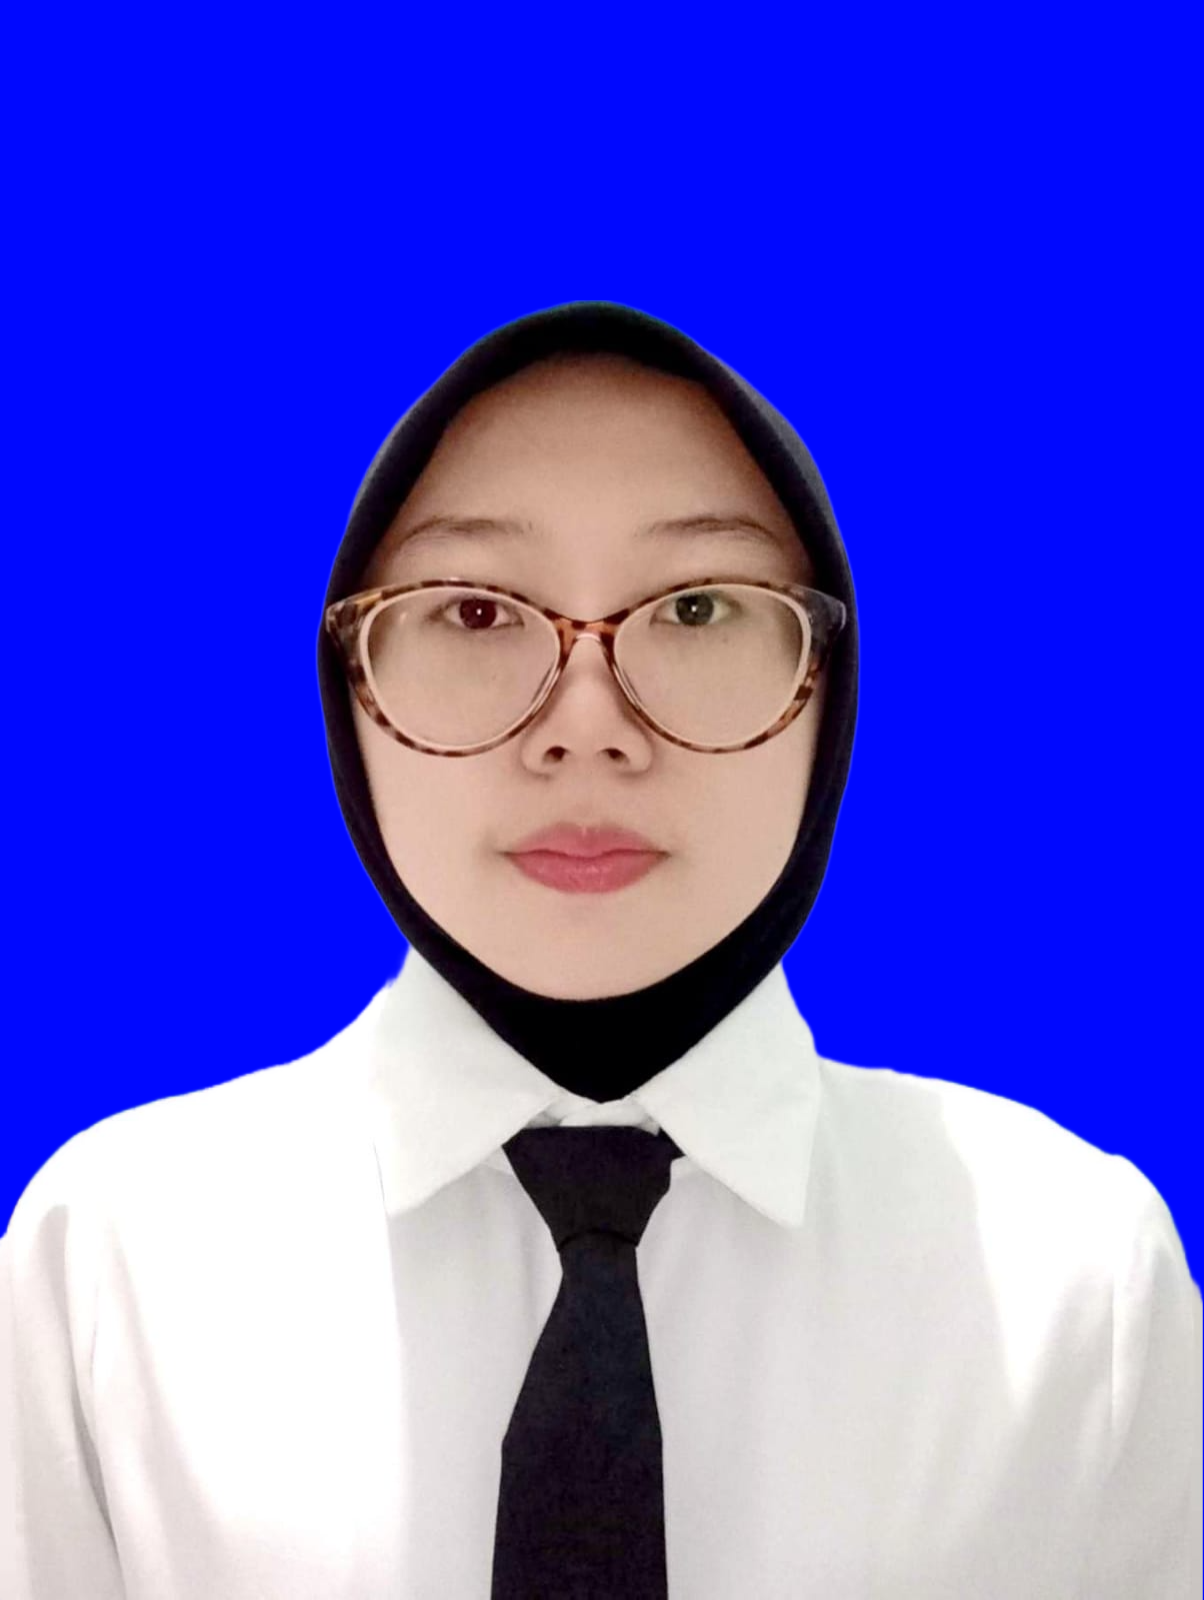
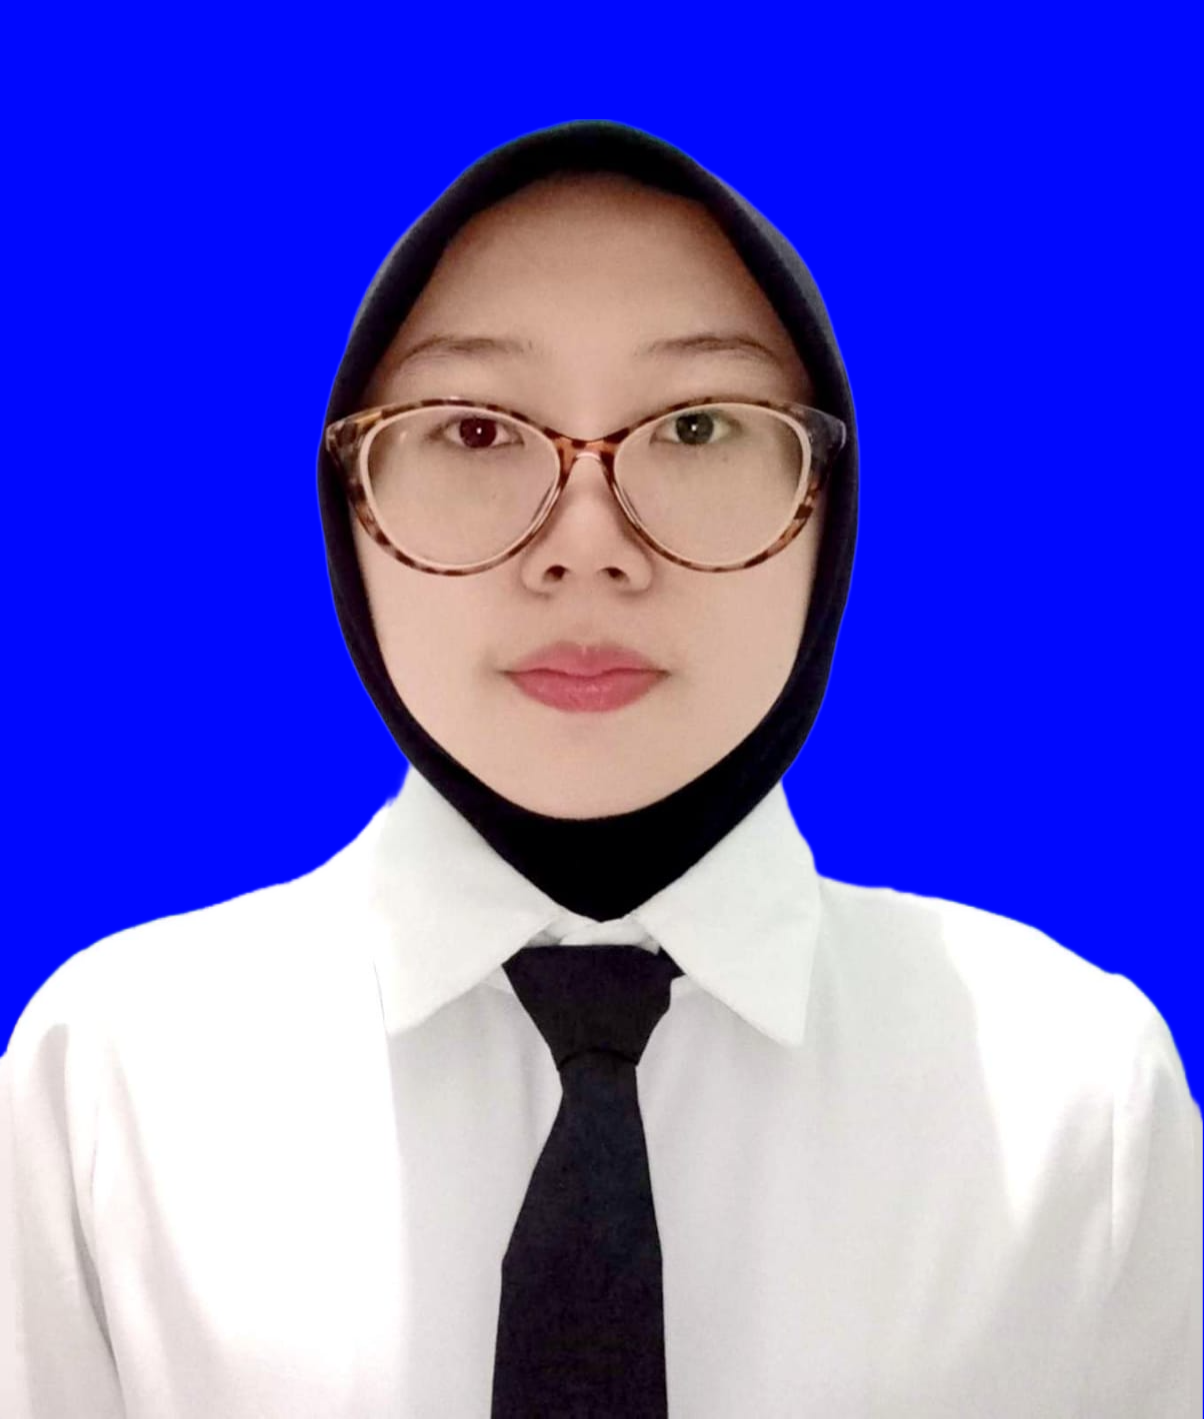
update style

Changed region(s): [[0.0, 0.062, 1.0, 0.8992], [0.0615, 0.8372, 0.0922, 0.9612], [0.3995, 0.8682, 0.4302, 0.8992]]

diff --git a/style.css b/style.css
@@ -387,7 +387,7 @@ section { padding: 110px 0;}
     border: 1px solid var(--border);
     border-radius: 20px;
     transition: .35s;
-    align-items: center;
+    justify-content: center !important;
 }
 .skill-card:hover {
     transform: translateY(-6px);
@@ -584,16 +584,6 @@ section { padding: 110px 0;}
     row-gap: 35px;
     align-items: start;
 }
-.timeline::before {
-    content: "";
-    position: absolute;
-    top: 50%;
-    left: 0;
-    right: 0;
-    height: 2px;
-    background: var(--blue-soft);
-    z-index: 0;
-}
 .timeline-item {
     position: relative;
     z-index: 1;
@@ -784,112 +774,72 @@ footer { padding: 30px 0;}
     visibility: visible;
     transform: translateY(0);
 }
-.timeline {
-    position: relative;
-    max-width: 1100px;
-    width: 100%;
-    margin: 55px auto 0;
-    display: grid;
-    grid-template-columns: repeat(2, minmax(0, 1fr));
-    column-gap: 35px;
-    row-gap: 35px;
-    align-items: stretch;
-}
-.timeline-item {
-    position: relative;
-    min-width: 0;
-}
-.timeline-item:nth-child(odd) {
-    transform: translateY(-15px);
-}
-.timeline-item:nth-child(even) {
-    transform: translateY(15px);
-}
-.timeline-content {
-    height: 100%;
-    padding: 25px;
-    background: rgba(255, 255, 255, .92);
-    border: 1px solid var(--border);
-    border-radius: 20px;
-    box-shadow: 0 8px 30px rgba(62, 91, 107, .05);
-    transition: .35s ease;
-    overflow-wrap: break-word;
-}
-.timeline-content:hover {
-    transform: translateY(-6px);
-    box-shadow: var(--shadow-hover);
-    border-color: var(--blue-soft);
-}
-.timeline-content span {
-    display: inline-block;
-    font-size: 11px;
-    font-weight: 700;
-    color: var(--blue-dark);
-    background: rgba(143, 181, 201, .13);
-    padding: 7px 12px;
-    border-radius: 20px;
-    margin-bottom: 12px;
-}
-.timeline-content h3 {
-    font-family: "Playfair Display", serif;
-    font-size: 21px;
-    line-height: 1.35;
-    color: var(--navy);
-    margin-bottom: 12px;
-}
-.timeline-content p {
-    font-size: 13px;
-    line-height: 1.75;
-    color: var(--muted);
-    margin-bottom: 15px;
-    text-align: justify;
-}
-.timeline-link {
-    display: inline-flex;
-    align-items: center;
-    gap: 7px;
-    font-size: 12px;
-    font-weight: 700;
-    color: var(--blue-dark);
-    text-decoration: none;
-    transition: .3s ease;
-}
-.timeline-link:hover {
-    color: var(--navy);
-    gap: 11px;
+/* ==================== RESPONSIVE ==================== */
+@media (max-width: 992px) {
+    .hero-wrapper { gap: 35px; }
+    .hero h1 { font-size: 60px; }
+    .about-grid { gap: 35px; }
+    .skills-certificates { grid-template-columns: 1fr; gap: 40px; }
+    .projects-grid { grid-template-columns: repeat(2, 1fr); }
+    .timeline { column-gap: 20px; }
 }
 
 @media (max-width: 768px) {
-    .timeline {
-        column-gap: 20px;
-        row-gap: 25px;
-        margin-top: 35px;
+    .navbar { height: 70px; }
+    .menu-btn { display: block; }
+    .nav-links {
+        position: absolute; top: 70px; left: 0; width: 100%;
+        display: none; flex-direction: column; align-items: center;
+        gap: 20px; padding: 25px; background: var(--bg);
+        box-shadow: var(--shadow);
     }
-    .timeline-item:nth-child(odd) {transform: translateY(-8px);}
-    .timeline-item:nth-child(even) {transform: translateY(8px);}
-    .timeline-content {padding: 20px; border-radius: 16px;}
-    .timeline-content h3 {font-size: 18px;}
-    .timeline-content p {font-size: 12px;}
+    .nav-links.active { display: flex; }
+    .hero { min-height: auto; padding: 120px 0 70px; }
+    .hero-wrapper, .about-grid { grid-template-columns: 1fr; gap: 40px; }
+    .hero-content { text-align: center; }
+    .hero-description { margin: 0 auto 25px; }
+    .hero-buttons { justify-content: center; }
+    .hero h1 { font-size: clamp(42px, 10vw, 60px); }
+    .hero-image-card { height: 400px; max-width: 330px; }
+    .floating-card { left: -10px; }
+    .flower { right: -5px; }
+    section { padding: 75px 0; }
+    .section-heading { margin-bottom: 35px; }
+    .about-left { max-width: 100%; }
+    .about-photo { height: 400px; max-width: 100%; }
+    .about-content p { font-size: 14px; }
+    .skills-grid { grid-template-columns: repeat(2, 1fr); }
+    .projects-grid { grid-template-columns: repeat(2, 1fr); }
+    .timeline { grid-template-columns: 1fr; gap: 20px; margin-top: 35px; }
+    .timeline-item:nth-child(odd), .timeline-item:nth-child(even) { transform: none; }
+    .contact-card { padding: 55px 25px; border-radius: 25px; }
+    .footer-inner { flex-direction: column; text-align: center; }
 }
 
-@media (max-width: 576px) {
-    .timeline {
-        grid-template-columns: 1fr;
-        gap: 20px;
-        margin: 30px auto 0;
-        padding: 0 5px;
-    }
-    .timeline-item:nth-child(odd),
-    .timeline-item:nth-child(even) {transform: none;}
-    .timeline-content {padding: 20px; border-radius: 16px;}
-    .timeline-content h3 {font-size: 18px; line-height: 1.4;}
-    .timeline-content p {font-size: 13px; line-height: 1.7;}
-    .timeline-content span {font-size: 10px; padding: 6px 10px;}
-    .timeline-link {font-size: 12px;}
-}
-
-@media (max-width: 375px) {
-    .timeline-content {padding: 16px;}
-    .timeline-content h3 {font-size: 16px;}
-    .timeline-content p {font-size: 12px;}
+@media (max-width: 480px) {
+    .container { width: 92%; }
+    .logo { font-size: 24px; }
+    .hero h1 { font-size: 42px; }
+    .hero-small { font-size: 11px; }
+    .hero-description { font-size: 14px; }
+    .hero-image-card { height: 340px; max-width: 280px; }
+    .floating-card { padding: 11px 13px; }
+    .flower { font-size: 35px; }
+    section { padding: 60px 0; }
+    .section-title { font-size: 34px; }
+    .about-photo { height: 330px; }
+    .about-info { grid-template-columns: 1fr 1fr; gap: 8px; }
+    .info-box { padding: 12px 10px; }
+    .info-box strong { font-size: 11px; }
+    .skills-grid, .projects-grid { grid-template-columns: 1fr; }
+    .skill-card { padding: 18px; }
+    .certificate-card { padding: 13px; }
+    .certificate-info h3 { font-size: 12px; }
+    .certificate-year { font-size: 10px; }
+    .project-content { padding: 18px; }
+    .timeline-content { padding: 20px; }
+    .contact-card { padding: 45px 18px; }
+    .contact-card h2 { font-size: 38px; }
+    .btn { padding: 11px 17px; font-size: 12px; }
+    .back-top { right: 15px; bottom: 15px; }
 }

diff --git a/index.html b/index.html
@@ -293,7 +293,7 @@
                         <div class="project-content">
                             <span class="project-tag">Analisis dan Visualisasi Data</span>
                             <h3>Klasterisasi Data Penyakit Jantung Koroner</h3>
-                            <p>Melakukan analisis dan visualisasi data penyakit jantung koroner menggunakan RapidMiner dengan menerapkan metode CRISP-DM dan algoritma K-Means Clustering. Proyek ini mencakup pengolahan dataset sebanyak 547 data, analisis korelasi antarvariabel, serta visualisasi hasil untuk mengidentifikasi pola dan karakteristik data yang berkaitan dengan penyakit jantung koroner.</p>
+                            <p>Melakukan analisis dan visualisasi data penyakit jantung koroner menggunakan RapidMiner dengan menerapkan metode CRISP-DM dan algoritma K-Means Clustering. Proyek ini mencakup pengolahan dataset sebanyak 547 data.</p>
                             <a href="https://canva.link/jfyo6j9qgzsi5ll" class="project-link">Lihat Detail <i class="bi bi-arrow-right"></i></a>
                         </div>
                     </article>
@@ -302,7 +302,7 @@
                         <div class="project-content">
                             <span class="project-tag">Analisis dan Visualisasi Data</span>
                             <h3>Analisa prediksi cuaca Kota Tegal</h3>
-                            <p>Melakukan analisis dan perbandingan performa model prediksi cuaca di Kota Tegal menggunakan algoritma Artificial Neural Network (ANN) dan Support Vector Machine (SVM). Penelitian ini menggunakan 365 data cuaca harian dari BMKG dengan tahapan preprocessing, normalisasi data, pemodelan menggunakan K-Fold Cross Validation, serta evaluasi menggunakan metrik RMSE, MSE, dan R².</p>
+                            <p>Melakukan analisis dan perbandingan performa model prediksi cuaca di Kota Tegal menggunakan algoritma Artificial Neural Network (ANN) dan Support Vector Machine (SVM). Penelitian ini menggunakan 365 data cuaca harian dari BMKG.</p>
                             <a href="https://drive.google.com/drive/folders/1EwmvLYH2cYRx2uOntElEPxchDv3mY-fJ?usp=sharing" class="project-link">Lihat Detail <i class="bi bi-arrow-right"></i></a>
                         </div>
                     </article>
